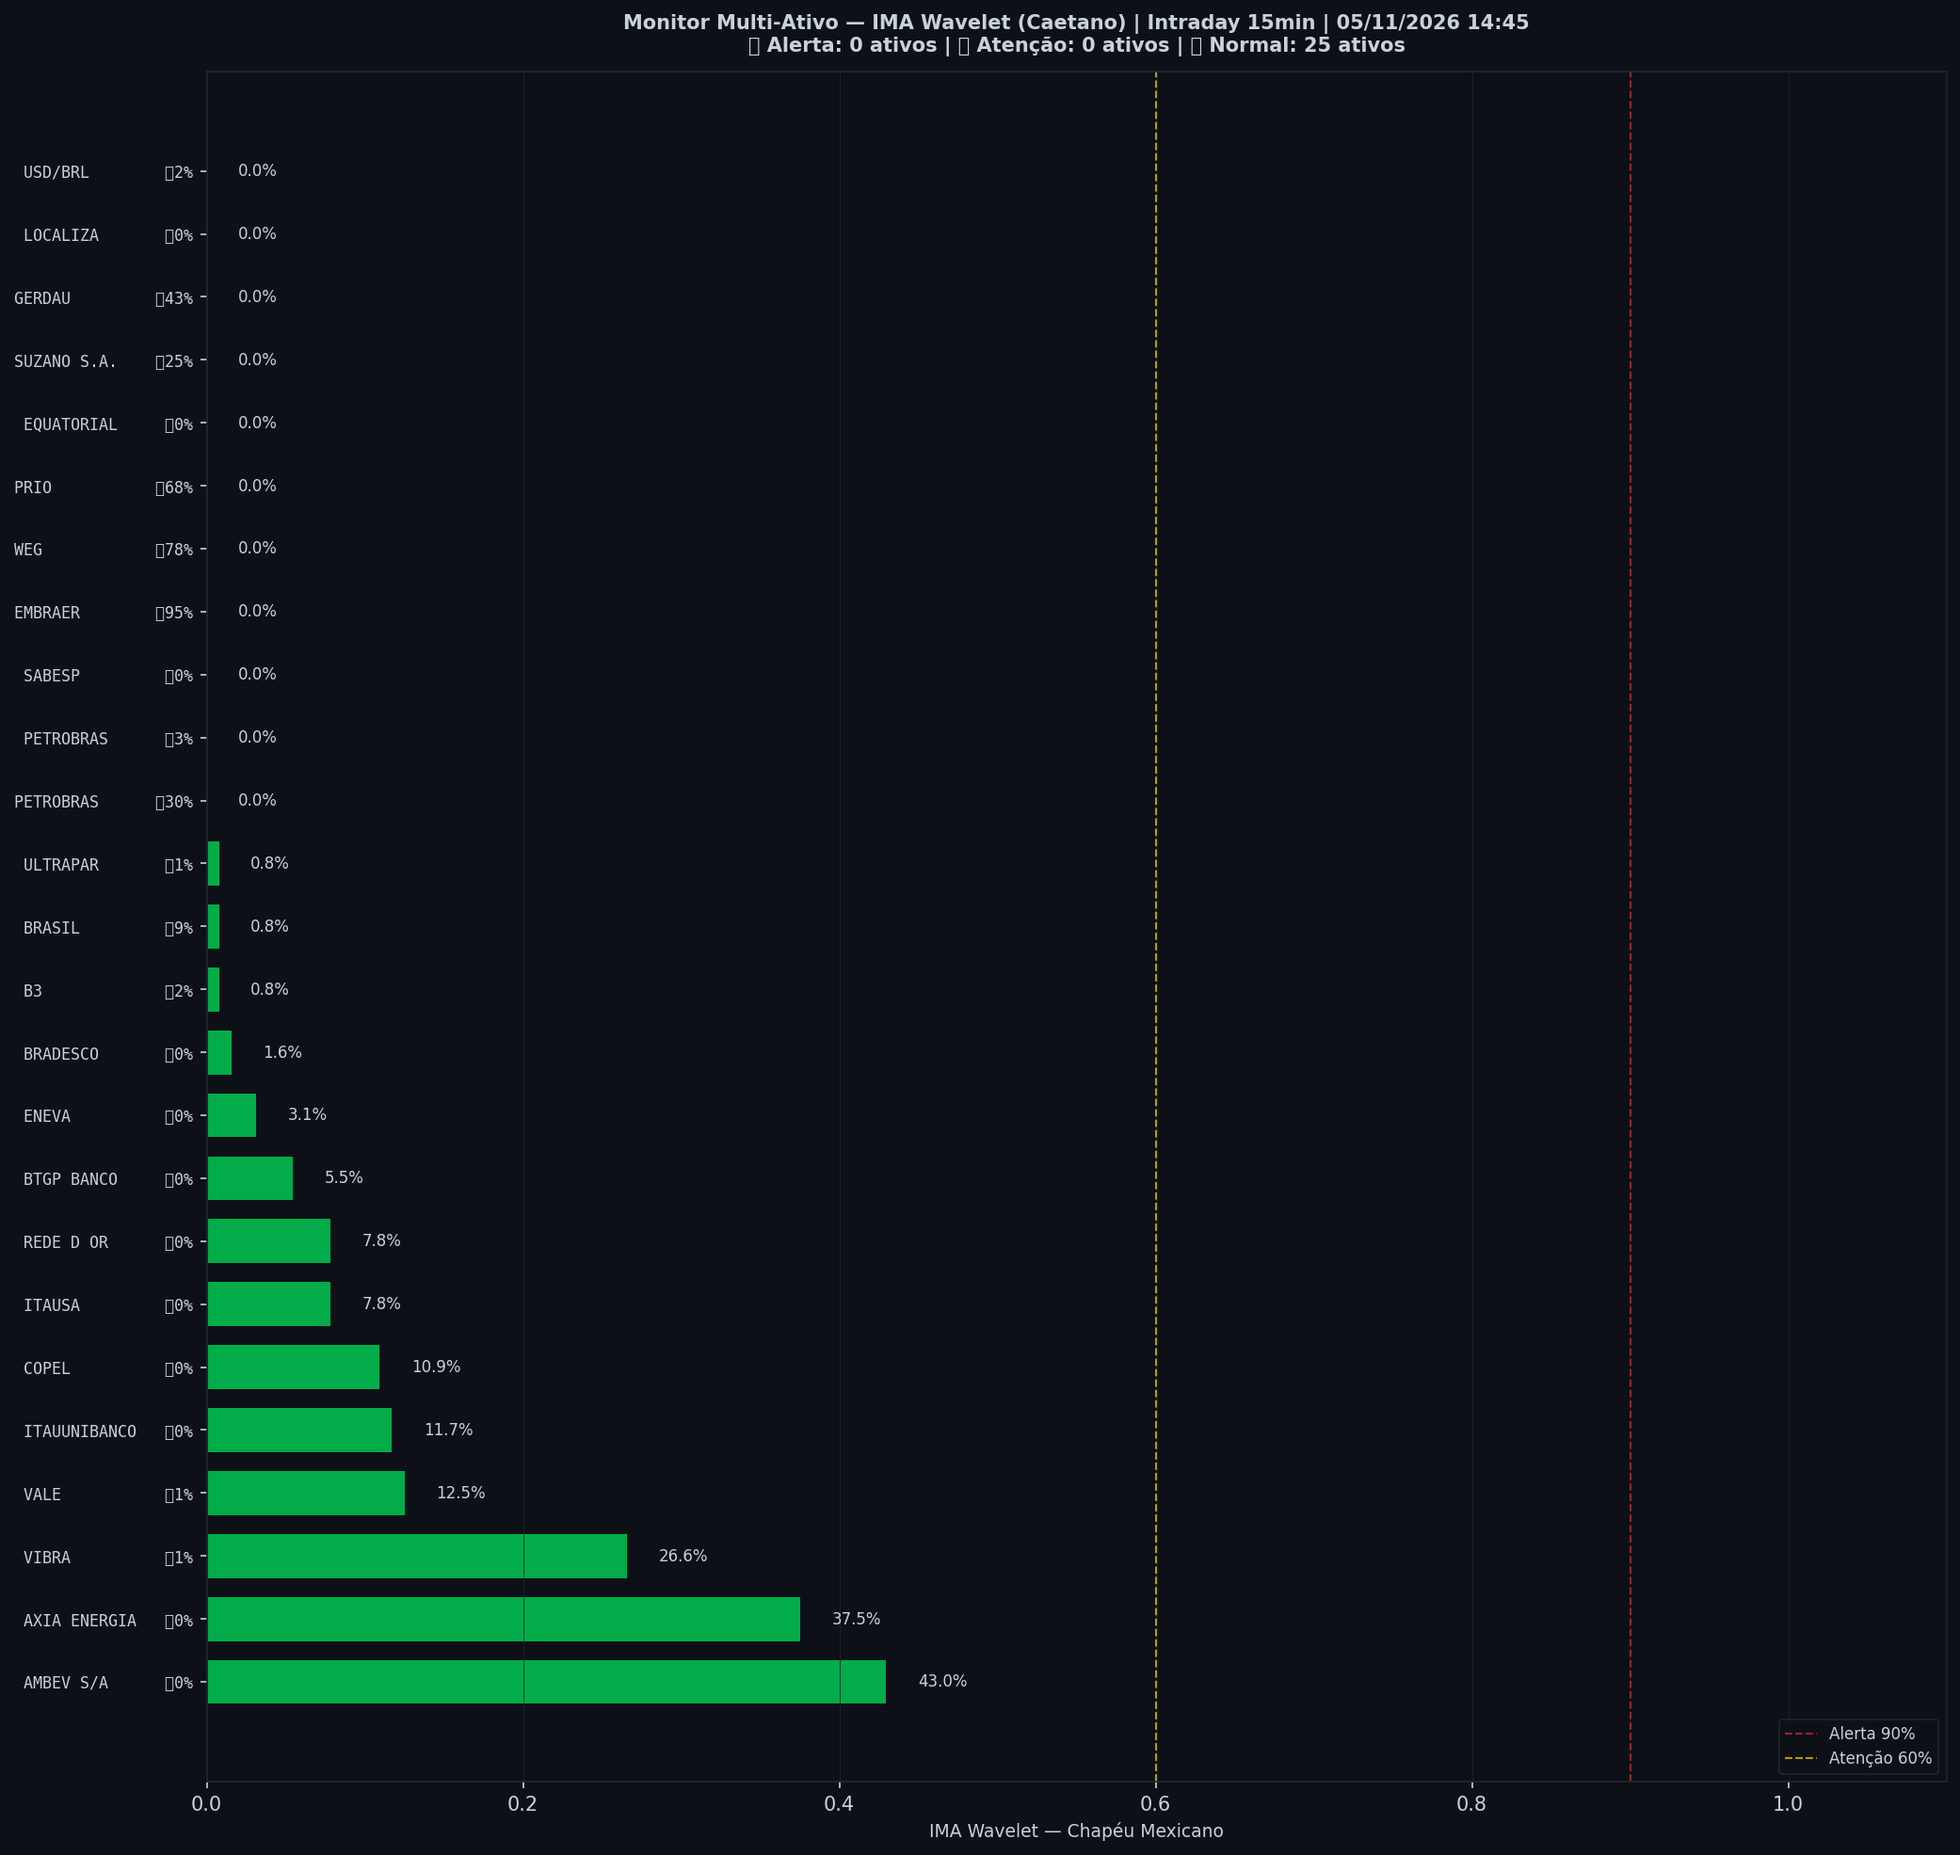
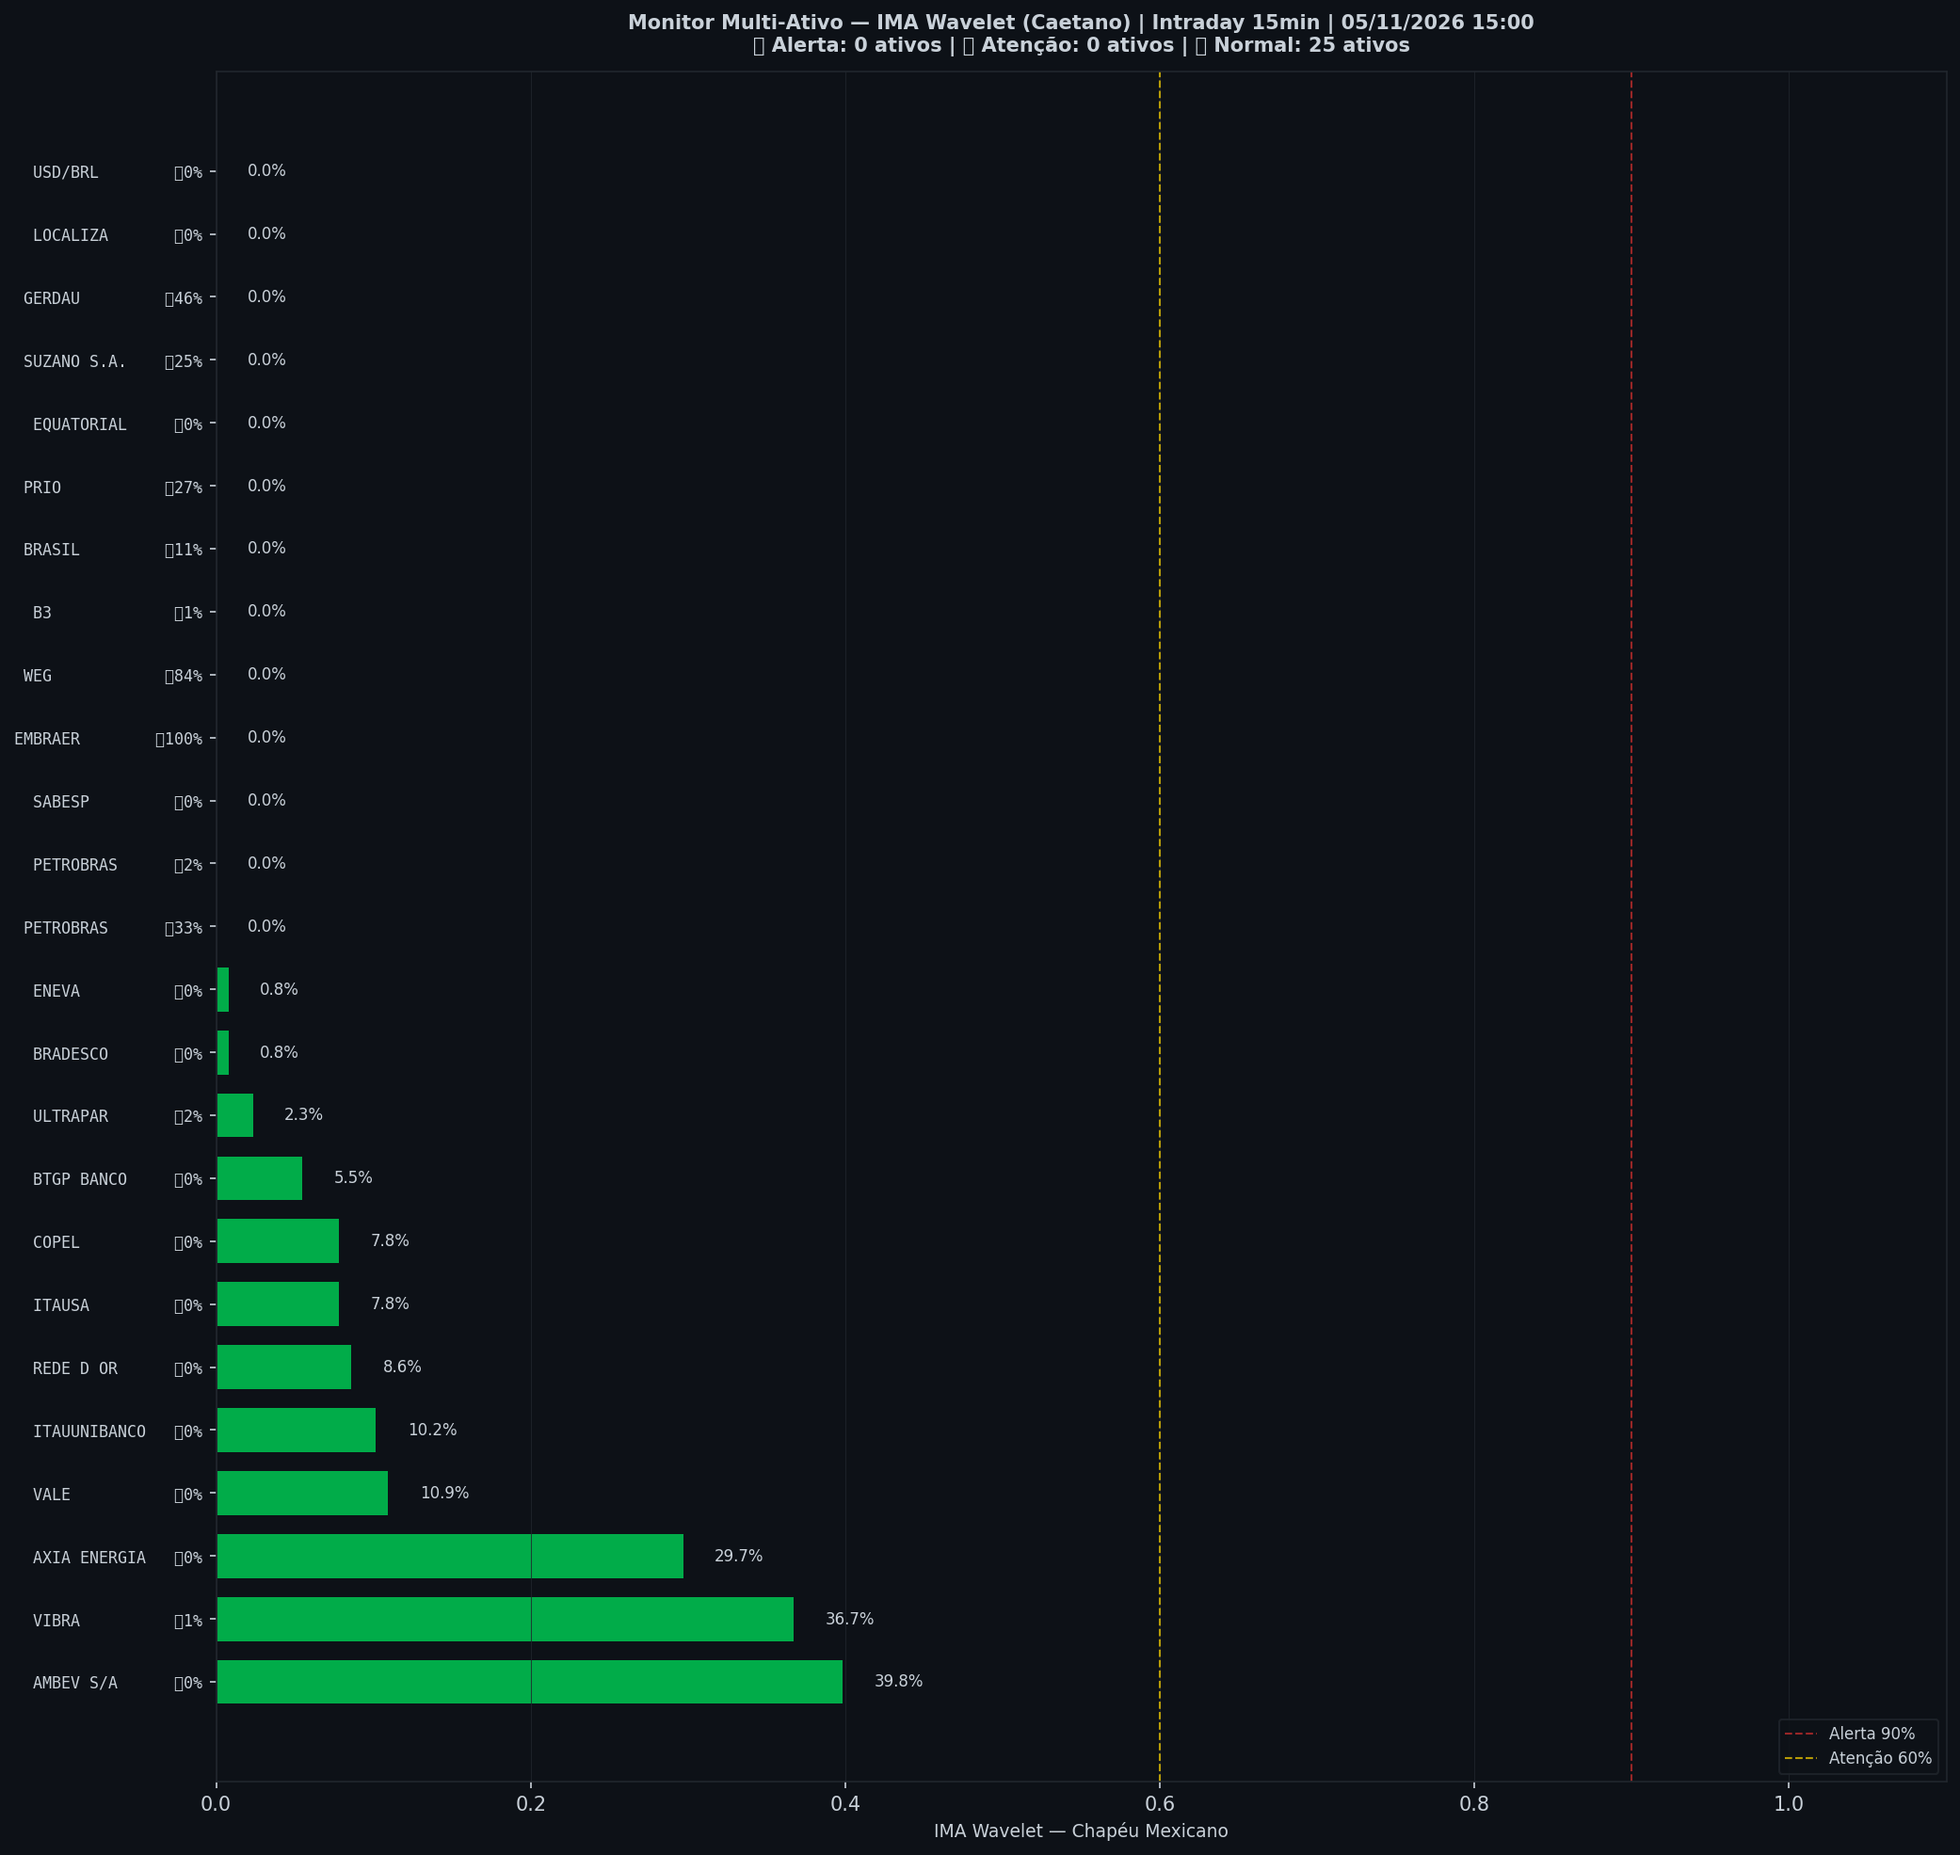
🤖 Auto: Sinal 05/11/2026 15:00

diff --git a/content/intraday/2026-11-05.md b/content/intraday/2026-11-05.md
@@ -1,10 +1,10 @@
 ---
-title: "🟢 Intraday 05/11/2026 14:30 BRT — VERDE"
+title: "🟢 Intraday 05/11/2026 14:45 BRT — VERDE"
 date: 2026-11-05
 tags: [intraday]
 ---
 
-> [!success] Onde o mercado está agora (05/11 14:30, candles de 15 min): **🟢 Calmo**
+> [!success] Onde o mercado está agora (05/11 14:45, candles de 15 min): **🟢 Calmo**
 > `Pânico ◀──────────●──────────▶ Euforia`
 >
 > O Ibovespa está dentro da sua faixa normal, sem excesso para cima nem para baixo.
@@ -20,7 +20,7 @@ tags: [intraday]
 > | 📍 **Sinais** | hoje: nenhum sinal | [abrir](sinais-topo-fundo/) |
 > | 🧪 **Placar ao vivo** | 1 operação(ões), 0 com lucro, soma -0,8% | [abrir](operacoes/) |
 
-> [!success] IMA Intraday · 15 min (05/11 14:30): 🟢 **VERDE** — Risco 0% · ＝ +0 p.p. vs leitura anterior
+> [!success] IMA Intraday · 15 min (05/11 14:45): 🟢 **VERDE** — Risco 0% · ＝ +0 p.p. vs leitura anterior
 > `░░░░░░░░░░░░░░░░░░░░`
 > Preço na faixa normal em torno da tendência.
 
@@ -32,13 +32,13 @@ tags: [intraday]
 >
 > *Leitura educacional baseada em 26 anos de dados, não recomendação. [Como usar](../metodologia/crise#3-como-usar-na-prática).*
 
-| Indicador — IMA Intraday · 15 min (05/11 14:30) | Valor |
+| Indicador — IMA Intraday · 15 min (05/11 14:45) | Valor |
 |---|---|
 | 🔴 ζ Topo — preço esticado acima da tendência | **0%** |
-| 🔵 ζ Fundo — preço esticado abaixo da tendência | 2% |
+| 🔵 ζ Fundo — preço esticado abaixo da tendência | 1% |
 | 🫧 LPPL bolha — alta super-exponencial (risco de crash) | 0% |
 | 🫧 LPPL antibolha — queda super-exponencial (risco de repique) | 0% |
-| 📊 Ibovespa | 166.487 pts |
+| 📊 Ibovespa | 166.634 pts |
 
 ![Gráfico do sinal](../graficos/sinal_intraday.png)
 
@@ -46,6 +46,7 @@ tags: [intraday]
 
 | Data | Zona | Evento | Risco | ζ Topo | ζ Fundo | LPPL |
 |---|---|---|---|---|---|---|
+| 2026-11-05 14:45 | 🟢 VERDE |  | **0%** | 0% | 1% | 0% |
 | 2026-11-05 14:30 | 🟢 VERDE |  | **0%** | 0% | 2% | 0% |
 | 2026-11-05 14:15 | 🟢 VERDE |  | **0%** | 0% | 1% | 0% |
 | 2026-11-05 14:00 | 🟢 VERDE |  | **0%** | 0% | 1% | 0% |
@@ -75,50 +76,49 @@ tags: [intraday]
 | 2026-11-04 15:00 | 🟢 VERDE |  | **29%** | 29% | 0% | 0% |
 | 2026-11-04 14:45 | 🟢 VERDE |  | **31%** | 31% | 0% | 0% |
 | 2026-11-04 14:30 | 🟢 VERDE |  | **31%** | 31% | 0% | 0% |
-| 2026-11-04 14:15 | 🟢 VERDE |  | **30%** | 30% | 1% | 0% |
 
 <small>Destaques: 🟡 ≥ 60% · 🔴 ≥ 90% (Risco e ζ Topo) · 🔵 ≥ 60% · 🔪 ≥ 90% (ζ Fundo) · 🫧 ≥ 30% · 🫧🔴 ≥ 50% (LPPL)</small>
 
 ## Monitor Multi-Ativo
 
-**0% dos ativos em tensão** (0🔴 0🟡) · **3 com ζ Fundo alto** — quanto mais ativos disparam juntos, mais confiável o sinal.
+**0% dos ativos em tensão** (0🔴 0🟡) · **2 com ζ Fundo alto** — quanto mais ativos disparam juntos, mais confiável o sinal.
 
 > [!danger] Em destaque no multi-ativo
-> 🔪 **EMBRAER** ζ Fundo 95% · 🔵 **WEG** ζ Fundo 78% · 🔵 **PRIO** ζ Fundo 68%
+> 🔪 **EMBRAER** ζ Fundo 100% · 🔵 **WEG** ζ Fundo 84%
 
 | Zona | Ativo | Setor | ζ Topo | ζ Fundo |
 |---|---|---|---|---|
-| 🟢 | **EMBRAER** | Outros | 0.0% | 🔪 **95.3%** |
-| 🟢 | **WEG** | Industrial | 0.0% | 🔵 **78.1%** |
-| 🟢 | **PRIO** | Petróleo | 0.0% | 🔵 **68.0%** |
-| 🟢 | **AMBEV S/A** | Consumo | 43.0% | 0.0% |
-| 🟢 | **GERDAU** | Siderurgia | 0.0% | 43.0% |
-| 🟢 | **AXIA ENERGIA** | Energia | 37.5% | 0.0% |
-| 🟢 | **PETROBRAS** | Petróleo | 0.0% | 30.5% |
-| 🟢 | **VIBRA** | Energia | 26.6% | 0.8% |
+| 🟢 | **EMBRAER** | Outros | 0.0% | 🔪 **100.0%** |
+| 🟢 | **WEG** | Industrial | 0.0% | 🔵 **83.6%** |
+| 🟢 | **GERDAU** | Siderurgia | 0.0% | 46.1% |
+| 🟢 | **AMBEV S/A** | Consumo | 39.8% | 0.0% |
+| 🟢 | **VIBRA** | Energia | 36.7% | 0.8% |
+| 🟢 | **PETROBRAS** | Petróleo | 0.0% | 32.8% |
+| 🟢 | **AXIA ENERGIA** | Energia | 29.7% | 0.0% |
+| 🟢 | **PRIO** | Petróleo | 0.0% | 26.6% |
 | 🟢 | **SUZANO S.A.** | Papel/Celulose | 0.0% | 25.0% |
-| 🟢 | **VALE** | Mineração | 12.5% | 0.8% |
-| 🟢 | **ITAUUNIBANCO** | Financeiro | 11.7% | 0.0% |
-| 🟢 | **COPEL** | Energia | 10.9% | 0.0% |
-| 🟢 | **BRASIL** | Financeiro | 0.8% | 9.4% |
+| 🟢 | **VALE** | Mineração | 10.9% | 0.0% |
+| 🟢 | **BRASIL** | Financeiro | 0.0% | 10.9% |
+| 🟢 | **ITAUUNIBANCO** | Financeiro | 10.2% | 0.0% |
+| 🟢 | **REDE D OR** | Saúde | 8.6% | 0.0% |
 | 🟢 | **ITAUSA** | Financeiro | 7.8% | 0.0% |
-| 🟢 | **REDE D OR** | Saúde | 7.8% | 0.0% |
+| 🟢 | **COPEL** | Energia | 7.8% | 0.0% |
 | 🟢 | **BTGP BANCO** | Financeiro | 5.5% | 0.0% |
-| 🟢 | **PETROBRAS** | Petróleo | 0.0% | 3.1% |
-| 🟢 | **ENEVA** | Energia | 3.1% | 0.0% |
-| 🟢 | **BRADESCO** | Financeiro | 1.6% | 0.0% |
-| 🟢 | **B3** | Financeiro | 0.8% | 1.6% |
-| 🟢 | **USD/BRL** | Câmbio | 0.0% | 1.6% |
-| 🟢 | **ULTRAPAR** | Outros | 0.8% | 0.8% |
+| 🟢 | **PETROBRAS** | Petróleo | 0.0% | 2.3% |
+| 🟢 | **ULTRAPAR** | Outros | 2.3% | 1.6% |
+| 🟢 | **BRADESCO** | Financeiro | 0.8% | 0.0% |
+| 🟢 | **B3** | Financeiro | 0.0% | 0.8% |
+| 🟢 | **ENEVA** | Energia | 0.8% | 0.0% |
 | 🟢 | **SABESP** | Saneamento | 0.0% | 0.0% |
 | 🟢 | **EQUATORIAL** | Energia | 0.0% | 0.0% |
 | 🟢 | **LOCALIZA** | Aluguel | 0.0% | 0.0% |
+| 🟢 | **USD/BRL** | Câmbio | 0.0% | 0.0% |
 
 <small>Destaques: 🟡 ≥ 60% · 🔴 ≥ 90% (Risco e ζ Topo) · 🔵 ≥ 60% · 🔪 ≥ 90% (ζ Fundo) · 🫧 ≥ 30% · 🫧🔴 ≥ 50% (LPPL)</small>
 
 ![Monitor multi-ativo](../graficos/multi_intraday.png)
 
-*Página atualizada em 05/11/2026 14:45 BRT (leitura da barra de 2026-11-05 14:30 BRT).*
+*Página atualizada em 05/11/2026 15:00 BRT (leitura da barra de 2026-11-05 14:45 BRT).*
 
 > [!warning] O que este indicador não faz
 > Medido em 5 anos de Ibovespa, o ζ **não antecipa** topos nem fundos: a capacidade de separar o que sobe do que cai ficou em 0,49–0,52, e 0,50 é moeda jogada ao ar. Ele descreve o estado de agora; não é aviso do que vem. As zonas verde/amarelo/vermelho continuam na página como descrição desse estado — **não as use como sinal de entrada ou saída**.

diff --git a/content/index.md b/content/index.md
@@ -6,9 +6,9 @@ tags: [home]
 
 **As ondas do mercado, explicadas.** Leitura do Ibovespa com estatística de 26 anos, baseada no trabalho de pesquisadores e traders reconhecidos e adaptada por Jarbas Daniel da Costa.
 
-*Última atualização: 05/11/2026 14:45 BRT · Intraday 15min*
+*Última atualização: 05/11/2026 15:00 BRT · Intraday 15min*
 
-> [!success] Onde o mercado está agora (05/11 14:30, candles de 15 min): **🟢 Calmo**
+> [!success] Onde o mercado está agora (05/11 14:45, candles de 15 min): **🟢 Calmo**
 > `Pânico ◀──────────●──────────▶ Euforia`
 >
 > O Ibovespa está dentro da sua faixa normal, sem excesso para cima nem para baixo.
@@ -54,18 +54,18 @@ tags: [home]
 > *Leitura educacional baseada em 26 anos de dados, não recomendação. [Como usar](metodologia/crise#3-como-usar-na-prática).*
 
 > [!info]- 🌊 Detalhes do Sinal de Crise (indicadores e últimos 7 pregões)
-> > [!success] IMA Intraday · 15 min (05/11 14:30): 🟢 **VERDE** — Risco 0% · ＝ +0 p.p. vs leitura anterior
+> > [!success] IMA Intraday · 15 min (05/11 14:45): 🟢 **VERDE** — Risco 0% · ＝ +0 p.p. vs leitura anterior
 > > `░░░░░░░░░░░░░░░░░░░░`
 > > Preço na faixa normal em torno da tendência.
 >
 >
-> | Indicador — IMA Intraday · 15 min (05/11 14:30) | Valor |
+> | Indicador — IMA Intraday · 15 min (05/11 14:45) | Valor |
 > |---|---|
 > | 🔴 ζ Topo — preço esticado acima da tendência | **0%** |
-> | 🔵 ζ Fundo — preço esticado abaixo da tendência | 2% |
+> | 🔵 ζ Fundo — preço esticado abaixo da tendência | 1% |
 > | 🫧 LPPL bolha — alta super-exponencial (risco de crash) | 0% |
 > | 🫧 LPPL antibolha — queda super-exponencial (risco de repique) | 0% |
-> | 📊 Ibovespa | 166.487 pts |
+> | 📊 Ibovespa | 166.634 pts |
 >
 > **Multi-ativo:** 0% em tensão (0🔴 0🟡 de 25 ativos)
 >
@@ -73,7 +73,7 @@ tags: [home]
 >
 > | Data | Zona | Risco | ζ Topo | ζ Fundo | LPPL |
 > |---|---|---|---|---|---|
-> | [05/11/2026](intraday/2026-11-05) | 🟢 VERDE | **0%** | 0% | 2% | 0% |
+> | [05/11/2026](intraday/2026-11-05) | 🟢 VERDE | **0%** | 0% | 1% | 0% |
 > | [04/11/2026](intraday/2026-11-04) | 🟢 VERDE | **4%** | 4% | 0% | 0% |
 >
 > <small>Destaques: 🟡 ≥ 60% · 🔴 ≥ 90% (Risco e ζ Topo) · 🔵 ≥ 60% · 🔪 ≥ 90% (ζ Fundo) · 🫧 ≥ 30% · 🫧🔴 ≥ 50% (LPPL)</small>

diff --git a/content/operacoes/entradas.md b/content/operacoes/entradas.md
@@ -31,7 +31,7 @@ description: "Compra depois de um sinal de fundo: Nadaraya no diário, semáforo
 > | Diário · Semáforo N3 após ζ Fundo | 07/07/26 a 172.021 | 10/08/26 a 172.021 | **+0,0%** | stop no preço de entrada |
 > | H4 · Semáforo N2 | 12/06/26 14h a 171.134 | 15/06/26 14h a 171.134 | **+0,0%** | stop no preço de entrada |
 >
-> <small>Atualizado 04/11 19:00 · checado no pregão às 14:45. Nota: ✅ passou no teste fora da amostra (walk-forward 2008–2026) · 🧪 em teste (H4, com aviso no Telegram) ou em observação (ζ, sem aviso) · 🧪 na tabela = operação do teste ao vivo.</small>
+> <small>Atualizado 04/11 19:00 · checado no pregão às 15:00. Nota: ✅ passou no teste fora da amostra (walk-forward 2008–2026) · 🧪 em teste (H4, com aviso no Telegram) ou em observação (ζ, sem aviso) · 🧪 na tabela = operação do teste ao vivo.</small>
 >
 > *Regras: depois de um sinal de fundo, o Diário entra quando o Nadaraya vira para cima; o Semanal e o H4 entram quando um fundo do semáforo fica fixo. Stop e saída de cada regra na [metodologia](metodologia/regras-de-operacao#entradas-do-método). Nenhuma regra de venda passou no teste. Os números do histórico têm viés de escolha (overfitting); o placar ao vivo é o que vale. Leitura educacional do método, não recomendação.*
 

diff --git a/content/historico.md b/content/historico.md
@@ -5,7 +5,7 @@ tags: [historico]
 
 # 📜 Histórico de leituras (v5)
 
-**2.161 leituras** desde 2026-07-03. Na página ficam os últimos 3 dias leitura por leitura e o resumo de cada dia anterior; o registro inteiro está no arquivo para baixar.
+**2.162 leituras** desde 2026-07-03. Na página ficam os últimos 3 dias leitura por leitura e o resumo de cada dia anterior; o registro inteiro está no arquivo para baixar.
 
 [**Baixar o histórico completo**](historico-completo.csv) (95 KB · abre no Excel e no LibreOffice)
 
@@ -16,6 +16,7 @@ tags: [historico]
 
 | Data | Modo | Zona | Risco | IMA | LPPL |
 |---|---|---|---|---|---|
+| 2026-11-05 14:45 | intraday | 🟢 VERDE | 0% | 0% | 0% |
 | 2026-11-05 14:30 | intraday | 🟢 VERDE | 0% | 0% | 0% |
 | 2026-11-05 14:15 | intraday | 🟢 VERDE | 0% | 0% | 0% |
 | 2026-11-05 14:00 | intraday | 🟢 VERDE | 0% | 0% | 0% |

diff --git a/content/operacoes/ranking.md b/content/operacoes/ranking.md
@@ -5,7 +5,7 @@ tags: [operacoes]
 description: "As regras de compra do site ordenadas pelo resultado, com treino, teste e placar ao vivo"
 ---
 
-*Atualizado 05/11/2026 14:45 · histórico simulado com as regras congeladas em 23/10/2026 + placar ao vivo.*
+*Atualizado 05/11/2026 15:00 · histórico simulado com as regras congeladas em 23/10/2026 + placar ao vivo.*
 
 As regras de compra do site, **da que mais rendeu para a que menos rendeu**. O resultado é por operação, no índice à vista, sem custos e sem juros compostos (a soma é só a soma das operações). **Treino** = entradas de 2001 a 2013 e **teste** = 2014 em diante: uma regra só é confiável se ganhou nos dois. O único resultado sem nenhum ajuste ao histórico é o **placar ao vivo**.
 

diff --git a/content/linha-do-tempo/index.md b/content/linha-do-tempo/index.md
@@ -5,7 +5,7 @@ description: "Todo sinal, ordem, stop e aviso do Pêndulo de Mercado, do mais re
 tags: [eventos]
 ---
 
-*Atualizada 05/11/2026 14:45 BRT · a cada 15 min no pregão e às 19h.*
+*Atualizada 05/11/2026 15:00 BRT · a cada 15 min no pregão e às 19h.*
 
 Tudo o que o sistema fez ou detectou, **do mais recente para o mais antigo**: sinais de topo e fundo, ordens de compra e de venda armadas, compras, vendas, stops, avisos de 🚨 preço perto do nível e mudanças da Crise. Os **últimos 7 dias** ficam abertos; o resto, por **ano → mês → dia**.
 
